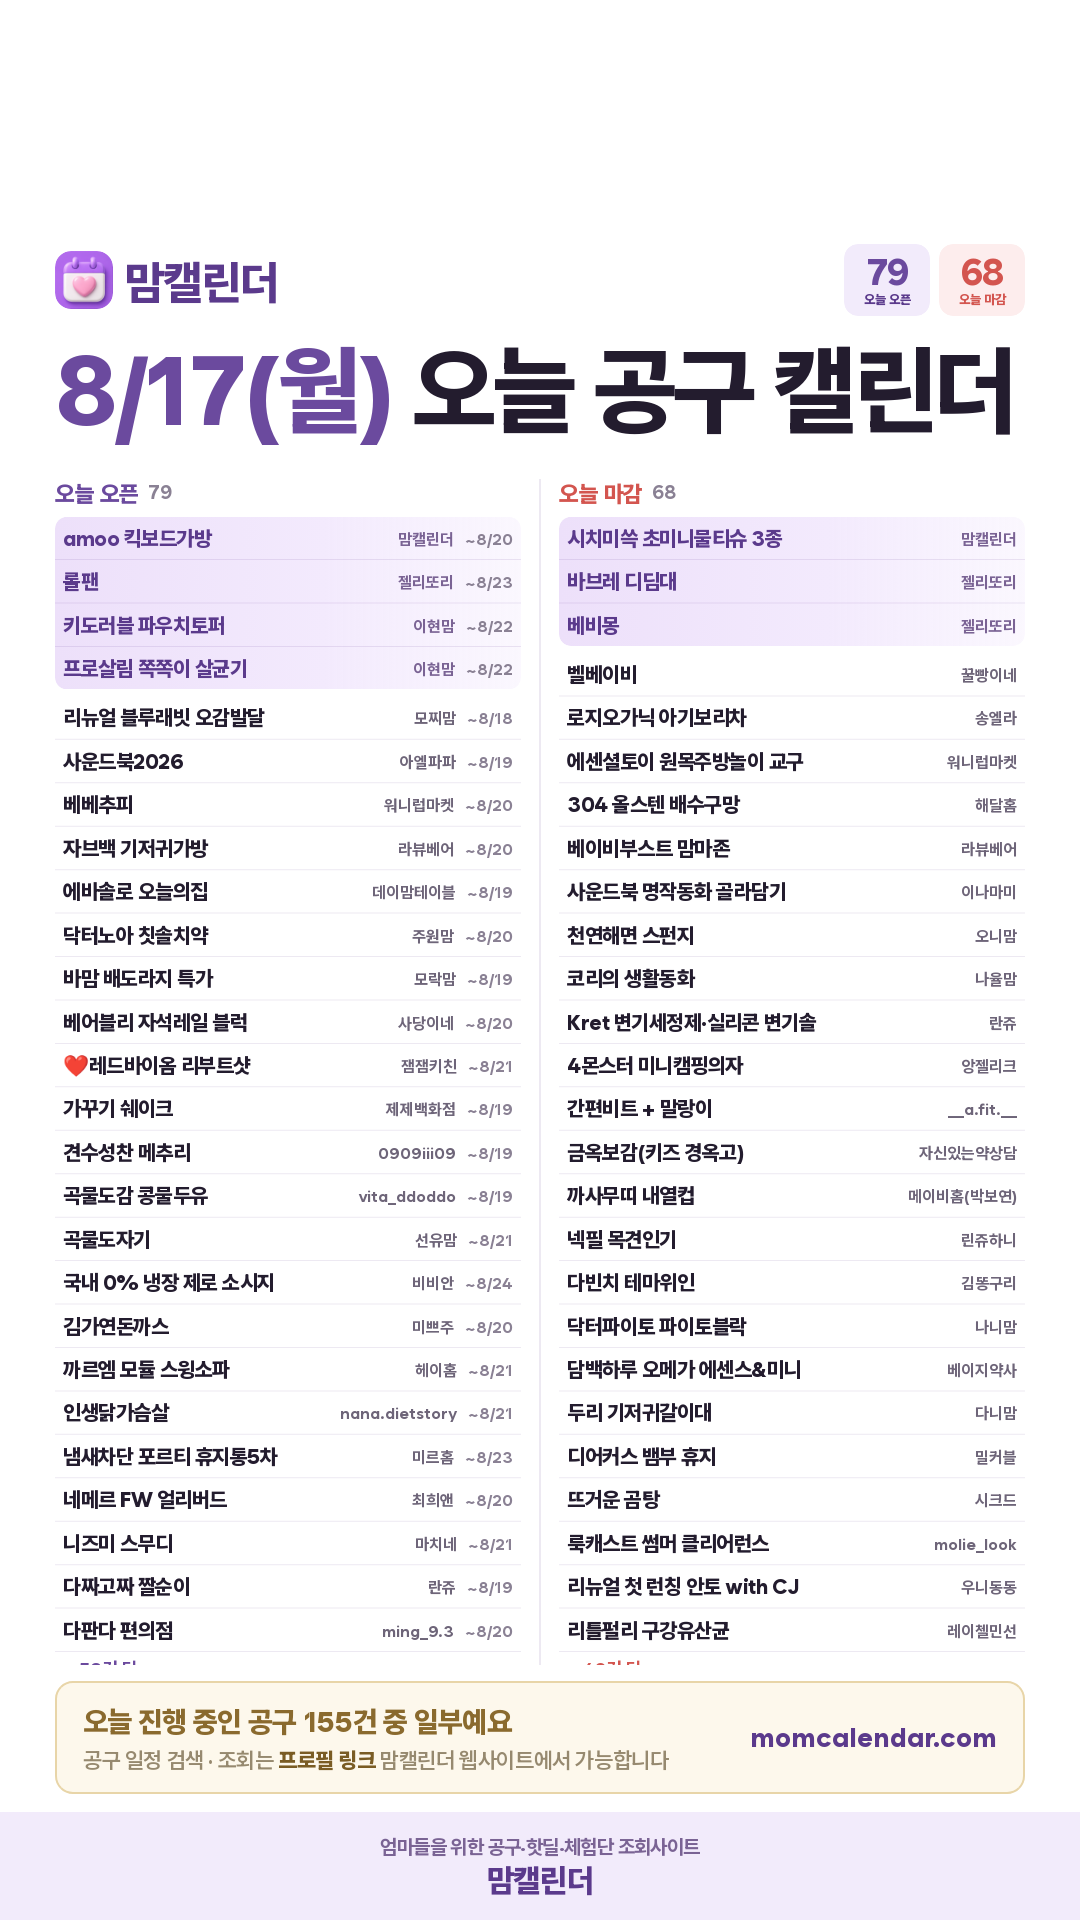
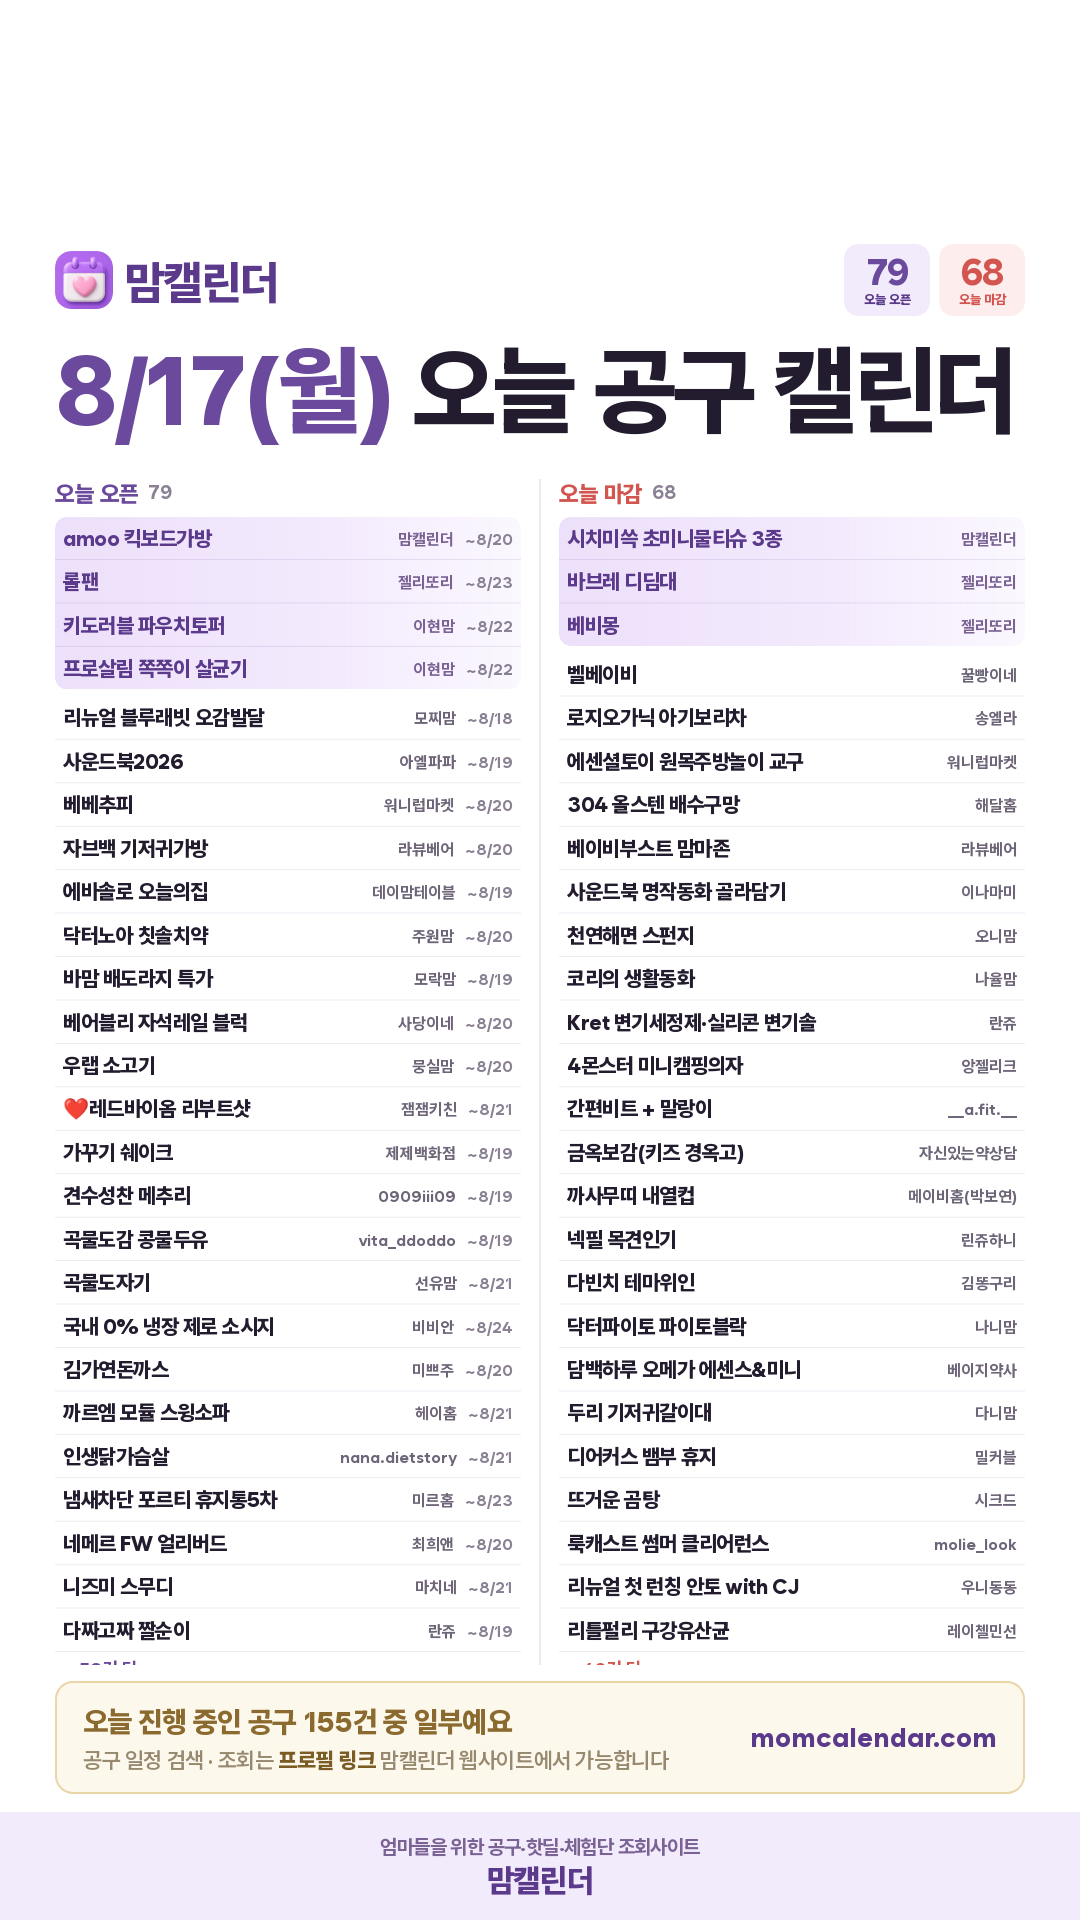
아침 인스타 카드 (2026-08-12)

Changed region(s): [[0.0611, 0.5312, 0.275, 0.875], [0.3361, 0.5312, 0.4278, 0.875]]

diff --git a/daily/2026-08-17.html b/daily/2026-08-17.html
@@ -55,6 +55,7 @@ textarea{width:100%;height:260px;border:1px solid #E3DCEF;border-radius:10px;pad
 · 닥터노아 칫솔치약 — 주원맘 (~8/20)
 · 바맘 배도라지 특가 — 모락맘 (~8/19)
 · 베어블리 자석레일 블럭 — 사당이네 (~8/20)
+· 우랩 소고기 — 뭉실맘 (~8/20)
 · ❤레드바이옴 리부트샷 — 잼잼키친 (~8/21)
 · 가꾸기 쉐이크 — 제제백화점 (~8/19)
 · 견수성찬 메추리 — 0909iii09 (~8/19)
@@ -76,7 +77,6 @@ textarea{width:100%;height:260px;border:1px solid #E3DCEF;border-radius:10px;pad
 · 디디오랩 음식물처리기 — 축복맘 (~8/20)
 · 룰라러브 천연해면 앵콜 — 쁨마미 (~8/20)
 · 르반테 유기농 엑스트라버진 올리브오일 — 아얌얌 (~8/20)
-· 릿지서울 노브라웨어 — sani_and_haeng (~8/19)
 …나머지 41건은 맘캘린더 사이트에서 보실 수 있어요
 
 ⏰ 오늘 마감하는 공구
@@ -123,12 +123,12 @@ textarea{width:100%;height:260px;border:1px solid #E3DCEF;border-radius:10px;pad
 ⚠ 공구 일정은 판매자 사정에 따라 변경되거나 조기 마감될 수 있어요. 구매 전에 해당 셀러 계정에서 한 번 더 확인해 주세요.
 
 #맘캘린더 #공구일정 #육아공구 #육아용품 #책육아 #공동구매 #육아정보 #공구정보 #육아템 #먹거리공구 #살림템 #교구</textarea>
-    <div class="meta">2199자 / 2200자 · 오픈 30/71 · 마감 30/57</div>
+    <div class="meta">2184자 / 2200자 · 오픈 30/71 · 마감 30/57</div>
     <button class="btn btn2" onclick="cp('cap','캡션')">캡션 복사</button>
   </div>
   <div class="card">
     <div class="meta" style="margin:0 0 8px;font-weight:800;color:#5B2E8C">네이버 블로그용 (blog.naver.com/momcal) — 수정해서 쓰셔도 돼요</div>
-    <textarea id="btitle" style="height:54px">8월 17일(월) 대나무휴지·디디오랩·헤이홈 공구 오픈 | 인스타 공구 일정 한눈에 보기</textarea>
+    <textarea id="btitle" style="height:54px">8월 17일(월) 대나무휴지·디디오랩·헤이홈·가꾸기·링티아이·마이해빗·제로이트·레드바이옴 공구 오픈 | 8월 공구일정 사이트</textarea>
     <button class="btn btn2" onclick="cp('btitle','블로그 제목')">블로그 제목 복사</button>
     <textarea id="bbody" style="margin-top:9px">맘캘린더 채널 한눈에
 · 전체 공구 일정 실시간 검색 → https://momcalendar.com
@@ -321,7 +321,7 @@ textarea{width:100%;height:260px;border:1px solid #E3DCEF;border-radius:10px;pad
 
 ※ 공구 일정은 판매자 사정에 따라 변경되거나 조기 마감될 수 있어요. 구매 전에 해당 셀러 계정에서 한 번 더 확인해 주세요.
 
-#공구일정 #인스타공구 #인스타공구일정 #공동구매 #오늘의공구 #육아공구 #공구모음 #대나무휴지공구 #디디오랩공구 #헤이홈공구</textarea>
+#공구일정 #인스타공구 #인스타공구일정 #공동구매 #오늘의공구 #육아공구 #공구모음 #대나무휴지공구 #디디오랩공구 #헤이홈공구 #가꾸기공구 #링티아이공구 #마이해빗공구 #제로이트공구 #레드바이옴공구</textarea>
     <button class="btn" onclick="cp('bbody','블로그 본문 전체')">블로그 본문 전체 복사 (태그 포함)</button>
     <div class="meta">순서: 사진 저장 → 블로그 앱 글쓰기 → 제목 붙여넣기 → 본문 붙여넣기 → (여기에 카드 사진) 자리에 사진 → 발행. 끝의 #태그들은 자동으로 태그가 돼요</div>
   </div>

diff --git a/daily/index.html b/daily/index.html
@@ -1,1 +1,1 @@
-<!DOCTYPE html><meta charset="UTF-8"><meta http-equiv="refresh" content="0;url=./2026-08-16.html">
+<!DOCTYPE html><meta charset="UTF-8"><meta http-equiv="refresh" content="0;url=./2026-08-17.html">
